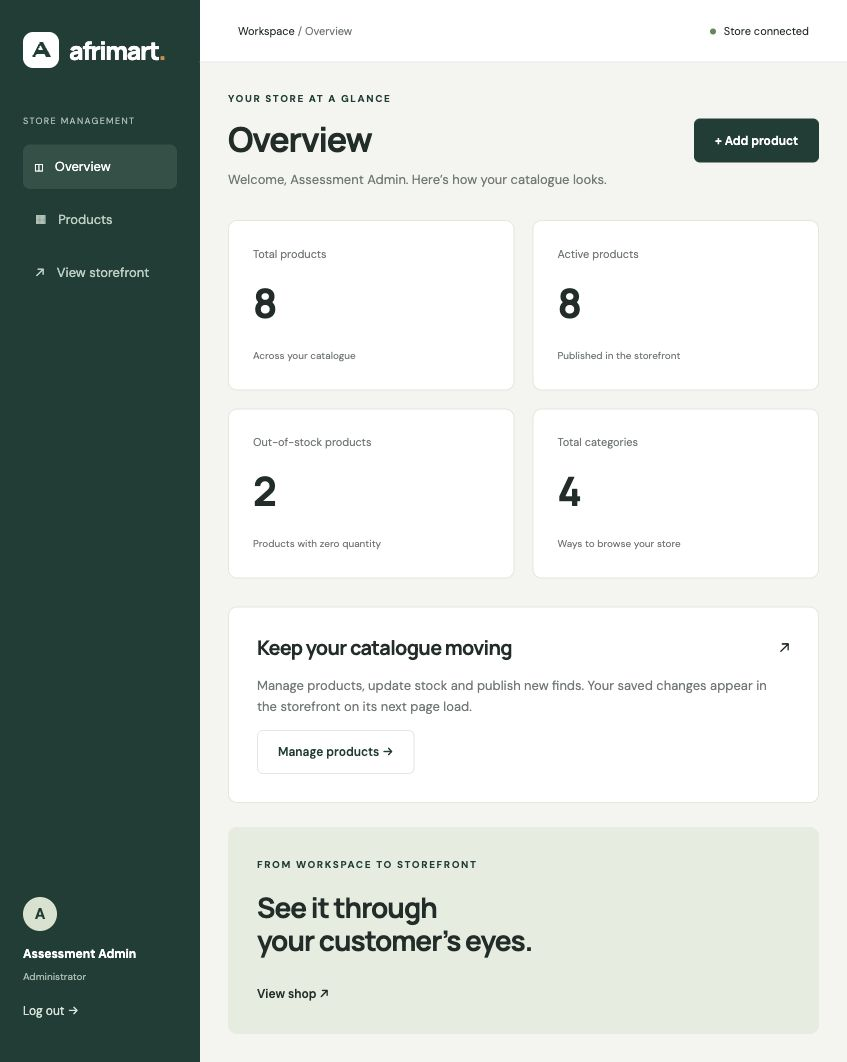
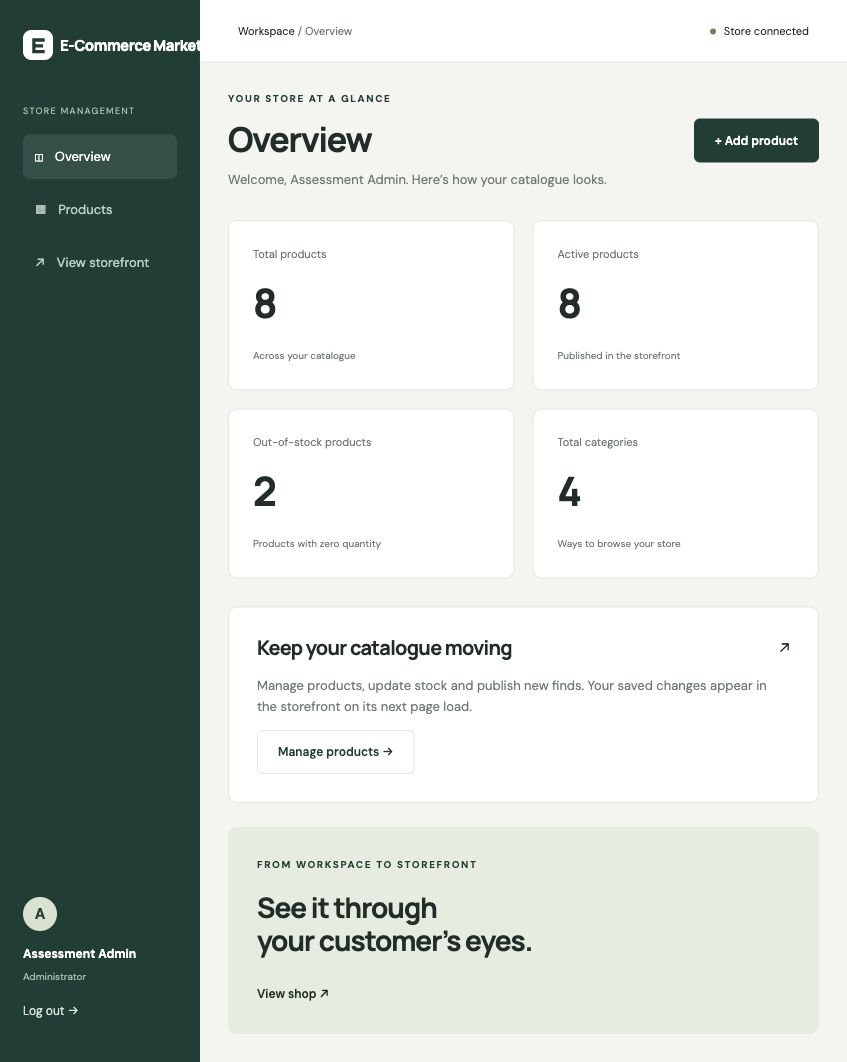
Rename store to E-Commerce Market and add licensed catalogue photos

Changed region(s): [[0.0307, 0.0932, 0.1535, 0.2175], [0.0307, 0.0311, 0.2456, 0.0621], [0.0614, 0.2486, 0.1842, 0.2797]]

diff --git a/public/css/app.css b/public/css/app.css
@@ -1237,3 +1237,24 @@ textarea {
     max-height: 180px;
     object-fit: contain;
 }
+/* E-Commerce Market branding and locally sourced photography */
+.brand { font-size: 22px; letter-spacing: -.8px; }
+.brand > span { white-space: nowrap; }
+.sidebar .brand { font-size: 15px; gap: 7px; letter-spacing: -.5px; }
+.sidebar .brand svg { flex-shrink: 0; width: 30px; height: 30px; }
+.hero-art > img { width: 86%; height: 300px; object-fit: cover; border-radius: 12px; transform: rotate(-3deg); }
+.product-image > img { object-fit: cover; }
+.detail-image img { border-radius: 12px; }
+.credits-list { padding-left: 18px; }
+.credits-list li { padding: 9px 0; font-size: 13px; }
+.credits-list a { text-decoration: underline; }
+@media(max-width:700px) {
+    .brand { font-size: 18px; }
+    .hero-art > img { height: 210px; }
+    .sidebar .brand { font-size: 20px; }
+    .login-intro .brand { font-size: 21px; }
+}
+.product-image img[src*="wireless-headphones"],
+.product-image img[src*="air-fryer"] {
+    object-fit: contain;
+}

diff --git a/resources/views/image-credits.blade.php b/resources/views/image-credits.blade.php
@@ -1,0 +1,15 @@
+@extends('layouts.shop')
+@section('title', 'Photo credits | E-Commerce Market')
+@section('content')
+<section class="container detail-container"><span class="eyebrow">DEMONSTRATION CATALOGUE</span><h1>Photo credits</h1><p>Licensed photographs illustrate this fictional assessment store. They do not identify verified stock or imply endorsement.</p><div class="panel"><ul class="credits-list">
+<li><strong>Cordless Drill</strong> — Ksenia Chernaya · <a href="https://www.pexels.com/photo/crop-man-holding-drill-in-hand-5691663/">Original photo</a> · <a href="https://www.pexels.com/license/">Pexels License</a></li>
+<li><strong>Tool Kit</strong> — Ivan S · <a href="https://www.pexels.com/photo/black-and-silver-hand-tool-4491848/">Original photo</a> · <a href="https://www.pexels.com/license/">Pexels License</a></li>
+<li><strong>Bluetooth Speaker</strong> — Anete Lusina · <a href="https://www.pexels.com/photo/close-up-shot-of-a-speaker-4790274/">Original photo</a> · <a href="https://www.pexels.com/license/">Pexels License</a></li>
+<li><strong>Wireless Headphones</strong> — Caleb Oquendo · <a href="https://www.pexels.com/photo/black-headphones-on-white-surface-7772548/">Original photo</a> · <a href="https://www.pexels.com/license/">Pexels License</a></li>
+<li><strong>Electric Kettle</strong> — Diana · <a href="https://www.pexels.com/photo/white-kettle-1921673/">Original photo</a> · <a href="https://www.pexels.com/license/">Pexels License</a></li>
+<li><strong>Office Chair</strong> — Mike Murray · <a href="https://www.pexels.com/photo/photo-of-a-black-office-chair-in-an-office-6446321/">Original photo</a> · <a href="https://www.pexels.com/license/">Pexels License</a></li>
+<li><strong>Desk Lamp</strong> — Kaboompics · <a href="https://www.pexels.com/photo/white-desk-lamp-on-brown-wooden-stool-7193648/">Original photo</a> · <a href="https://www.pexels.com/license/">Pexels License</a></li>
+<li><strong>Hero</strong> — Reinis Bambers · <a href="https://www.pexels.com/photo/lamp-and-headphones-on-table-1212665/">Original photo</a> · <a href="https://www.pexels.com/license/">Pexels License</a></li>
+<li><strong>Air Fryer</strong> — Djsgmnd · <a href="https://commons.wikimedia.org/wiki/File:Airfryer.jpg">Original photo</a> · <a href="https://creativecommons.org/licenses/by-sa/4.0/">CC BY-SA 4.0</a></li>
+</ul><p>The air-fryer image by Djsgmnd is unchanged and displayed at a smaller size. It is licensed under Creative Commons Attribution-ShareAlike 4.0. Pexels photos are downloaded at reduced resolution for display.</p></div></section>
+@endsection

diff --git a/database/seeders/ProductSeeder.php b/database/seeders/ProductSeeder.php
@@ -41,8 +41,8 @@ class ProductSeeder extends Seeder
 
             foreach ($products as [$name, $description, $price, $quantity]) {
                 $slug = Str::slug($name);
-                $imagePath = 'demo/'.$slug.'.svg';
-                Storage::disk('public')->put($imagePath, file_get_contents(public_path('images/'.$slug.'.svg')));
+                $imagePath = 'demo/'.$slug.'.jpg';
+                Storage::disk('public')->put($imagePath, file_get_contents(public_path('images/photos/'.$slug.'.jpg')));
                 $product = Product::firstOrCreate(
                     ['name' => $name],
                     [
@@ -54,7 +54,7 @@ class ProductSeeder extends Seeder
                         'image_path' => $imagePath,
                     ]
                 );
-                if ($product->image_path === null) {
+                if ($product->image_path === null || $product->image_path === 'demo/'.$slug.'.svg') {
                     $product->update(['image_path' => $imagePath]);
                 }
             }

diff --git a/resources/views/layouts/shop.blade.php b/resources/views/layouts/shop.blade.php
@@ -4,7 +4,7 @@
 <meta charset="UTF-8">
 <meta name="viewport" content="width=device-width, initial-scale=1.0">
 <meta name="theme-color" content="#173e36">
-<title>@yield('title', 'Afrimart | Everyday essentials')</title>
+<title>@yield('title', 'E-Commerce Market | Everyday essentials')</title>
 <link rel="stylesheet" href="{{ asset('css/app.css') }}">
 <script src="{{ asset('js/app.js') }}" defer>
 </script>
@@ -36,7 +36,7 @@
 <div class="container footer-row">
 <x-brand/>
 <p>Everyday essentials. New possibilities.</p>
-<span>Assessment project · Andani Magodi</span>
+<span>Demo catalogue · Andani Magodi · <a href="{{ route('image-credits') }}">Photo credits</a></span>
 </div>
 </footer>
 </body>

diff --git a/resources/views/components/brand.blade.php b/resources/views/components/brand.blade.php
@@ -1,8 +1,8 @@
-<a class="brand" href="{{ route('storefront.index') }}" aria-label="Afrimart home">
-<svg width="36" height="36" viewBox="0 0 36 36" role="img" aria-label="Afrimart logo">
+<a class="brand" href="{{ route('storefront.index') }}" aria-label="E-Commerce Market home">
+<svg width="36" height="36" viewBox="0 0 36 36" role="img" aria-label="E-Commerce Market logo">
 <rect width="36" height="36" rx="10" fill="currentColor"/>
-<path d="M9 25 17 10h3l8 15h-5l-1.5-3h-8L12 25zm6-7h5l-2.5-5z" fill="white"/>
+<path d="M11 10h15v4H15v3h9v4h-9v3h11v4H11z" fill="white"/>
 </svg>
-<span>afrimart<span class="brand-dot">.</span>
+<span>E-Commerce Market<span class="brand-dot">.</span>
 </span>
 </a>

diff --git a/resources/views/auth/login.blade.php b/resources/views/auth/login.blade.php
@@ -3,7 +3,7 @@
 <head>
 <meta charset="UTF-8">
 <meta name="viewport" content="width=device-width, initial-scale=1.0">
-<title>Admin Login | Afrimart</title>
+<title>Admin Login | E-Commerce Market</title>
 <link rel="stylesheet" href="{{ asset('css/app.css') }}">
 </head>
 <body class="login-body">
@@ -15,7 +15,7 @@
 <h1>A thoughtful store.<br>A simple workspace.</h1>
 <p>Keep your catalogue fresh and your next everyday essential ready to discover.</p>
 </div>
-<small>Afrimart · Store management</small>
+<small>E-Commerce Market · Store management</small>
 </section>
 <section class="login-form-panel">
 <a class="breadcrumb" href="{{ route('storefront.index') }}">← Back to shop</a>

diff --git a/resources/views/storefront/index.blade.php b/resources/views/storefront/index.blade.php
@@ -15,7 +15,7 @@
 <div class="hero-art">
 <div class="art-circle">
 </div>
-<img src="{{ asset('images/hero.svg') }}" alt="Illustration of a desk lamp, headphones and an electric kettle">
+<img src="{{ asset('images/photos/hero.jpg') }}" alt="Photograph of a desk with a lamp, headphones and a laptop">
 <span class="art-label label-top">THE EVERYDAY EDIT</span>
 <span class="art-label label-bottom">Useful by design.</span>
 </div>

diff --git a/resources/views/layouts/admin.blade.php b/resources/views/layouts/admin.blade.php
@@ -3,7 +3,7 @@
 <head>
 <meta charset="UTF-8">
 <meta name="viewport" content="width=device-width, initial-scale=1.0">
-<title>@yield('title', 'Overview') | Afrimart Admin</title>
+<title>@yield('title', 'Overview') | E-Commerce Market Admin</title>
 <link rel="stylesheet" href="{{ asset('css/app.css') }}">
 <script src="{{ asset('js/app.js') }}" defer>
 </script>

diff --git a/resources/views/storefront/show.blade.php b/resources/views/storefront/show.blade.php
@@ -1,5 +1,5 @@
 @extends('layouts.shop')
-@section('title', $product->name.' | Afrimart')
+@section('title', $product->name.' | E-Commerce Market')
 @section('content')<div class="container detail-container">
 <a class="breadcrumb" href="{{ route('storefront.index') }}#collection">← Back to products</a>
 <div class="product-detail">

diff --git a/routes/web.php b/routes/web.php
@@ -9,6 +9,8 @@ use Illuminate\Support\Facades\Route;
 Route::get('/', [StorefrontController::class, 'index'])
     ->name('storefront.index');
 
+Route::view('/image-credits', 'image-credits')->name('image-credits');
+
 Route::get('/products/{product}', [StorefrontController::class, 'show'])
     ->name('storefront.show');
 

diff --git a/README.md b/README.md
@@ -1,4 +1,4 @@
-# Afrimart mini storefront and admin dashboard
+# E-Commerce Market - storefront and admin dashboard
 
 A Laravel/MySQL assessment project by Andani Magodi. Public visitors browse categories, search a catalogue and open product details. Administrators maintain products, images, prices, stock and publication status through a protected dashboard.
 
@@ -11,7 +11,7 @@ The initial product/data flow was built step by step by Andani. AI assistance wa
 - MySQL 8, an empty database and a database account with permissions for migrations
 - PHP extensions required by Laravel, plus PDO MySQL, GD with WebP support, and Fileinfo
 
-No Node build is needed: this small application serves its own CSS/JavaScript from `public`. Fonts optionally load from Google Fonts, with system fallbacks. Product illustrations are local original SVG assets; uploaded images are raster images re-encoded as WebP.
+No Node build is needed: this small application serves its own CSS/JavaScript from `public`. Fonts optionally load from Google Fonts, with system fallbacks. Real catalogue photographs are stored locally with sources and licenses in IMAGE_CREDITS.md and the public photo-credits page; uploaded images are raster images re-encoded as WebP.
 
 ## Install
 
@@ -24,7 +24,7 @@ php artisan key:generate
 Create a dedicated MySQL database and application user using your database management tool. Set these values in your local `.env` (supply your own credentials):
 
 ```dotenv
-APP_NAME="Afrimart Assessment"
+APP_NAME="E-Commerce Market"
 APP_ENV=local
 APP_DEBUG=true
 APP_URL=http://127.0.0.1:8000
@@ -51,7 +51,7 @@ Open `/` for the shop, `/login` for login and `/admin` for the dashboard. Produc
 
 ## Features and decisions
 
-- Eight sample products in four categories, each with an illustration; two samples are out of stock.
+- Eight sample products in four categories, each with a photograph; two samples are out of stock.
 - Search checks name and description. Category tiles filter the same catalogue.
 - An active product is published even if stock is zero. Stock is derived from quantity rather than maintained as a second potentially inconsistent flag.
 - Products have a required category, decimal price, quantity, description, image path and publication flag.
@@ -59,8 +59,8 @@ Open `/` for the shop, `/login` for login and `/admin` for the dashboard. Produc
 - Product creation requires an image. Editing keeps the existing image unless a replacement is supplied.
 - Saved changes appear on the next storefront page request; no duplicate catalogue or WebSocket system.
 - User sessions use Laravel authentication; registration and public role assignment are not exposed.
-- Trusted sample SVGs are generated by this project. User-uploaded SVGs are rejected.
-- The seeder adds missing sample products without resetting existing prices or stock. It fills missing sample illustrations only when no image exists.
+- Sample photos are licensed demo assets. User-uploaded SVGs are rejected.
+- The seeder adds missing sample products without resetting existing prices or stock. It fills missing sample photos only when no image exists.
 - Categories are seeded; category CRUD, checkout, payments and order management are outside the assessment scope.
 
 ## Project map

diff --git a/SECURITY.md b/SECURITY.md
@@ -6,7 +6,7 @@ Eloquent queries bind search and form values. No user input is interpolated into
 
 ## XSS
 
-Blade `{{ }}` escapes product names, descriptions, category names, administrator names and search terms. Descriptions are plain text, not rich HTML. JavaScript does not inject product text with innerHTML. Tests submit script and event-handler text and verify escaped rendering. Trusted local illustrations are separate from uploaded content.
+Blade `{{ }}` escapes product names, descriptions, category names, administrator names and search terms. Descriptions are plain text, not rich HTML. JavaScript does not inject product text with innerHTML. Tests submit script and event-handler text and verify escaped rendering. Licensed local catalogue photos are separate from uploaded content.
 
 ## CSRF and sessions
 
@@ -26,7 +26,7 @@ Product validation requires a bounded name and description, an existing category
 
 ## Image uploads
 
-Uploads require decoded-image validation, JPEG/PNG/WebP MIME types and matching permitted filename extensions. Maximum size is 2 MB and dimensions are limited to 3000 by 3000. SVG, PHP and other active formats are rejected. GD decodes the raster and re-encodes a new WebP, discarding the original byte stream and metadata. Paths use generated UUIDs. Files live on Laravel's public storage disk, outside the application public directory, with a storage symlink. Production web servers must not execute uploaded files and should use correct MIME handling and nosniff headers. On database save failure, a newly stored image is removed; replaced/deleted product images are cleaned after database success. Cleanup only targets generated products/ paths, preserving shared seed illustrations. Storage cleanup failures remain an operational maintenance concern; file storage and SQL do not form a distributed transaction.
+Uploads require decoded-image validation, JPEG/PNG/WebP MIME types and matching permitted filename extensions. Maximum size is 2 MB and dimensions are limited to 3000 by 3000. SVG, PHP and other active formats are rejected. GD decodes the raster and re-encodes a new WebP, discarding the original byte stream and metadata. Paths use generated UUIDs. Files live on Laravel's public storage disk, outside the application public directory, with a storage symlink. Production web servers must not execute uploaded files and should use correct MIME handling and nosniff headers. On database save failure, a newly stored image is removed; replaced/deleted product images are cleaned after database success. Cleanup only targets generated products/ paths, preserving shared seed photos. Storage cleanup failures remain an operational maintenance concern; file storage and SQL do not form a distributed transaction.
 
 ## Credentials and environment
 
